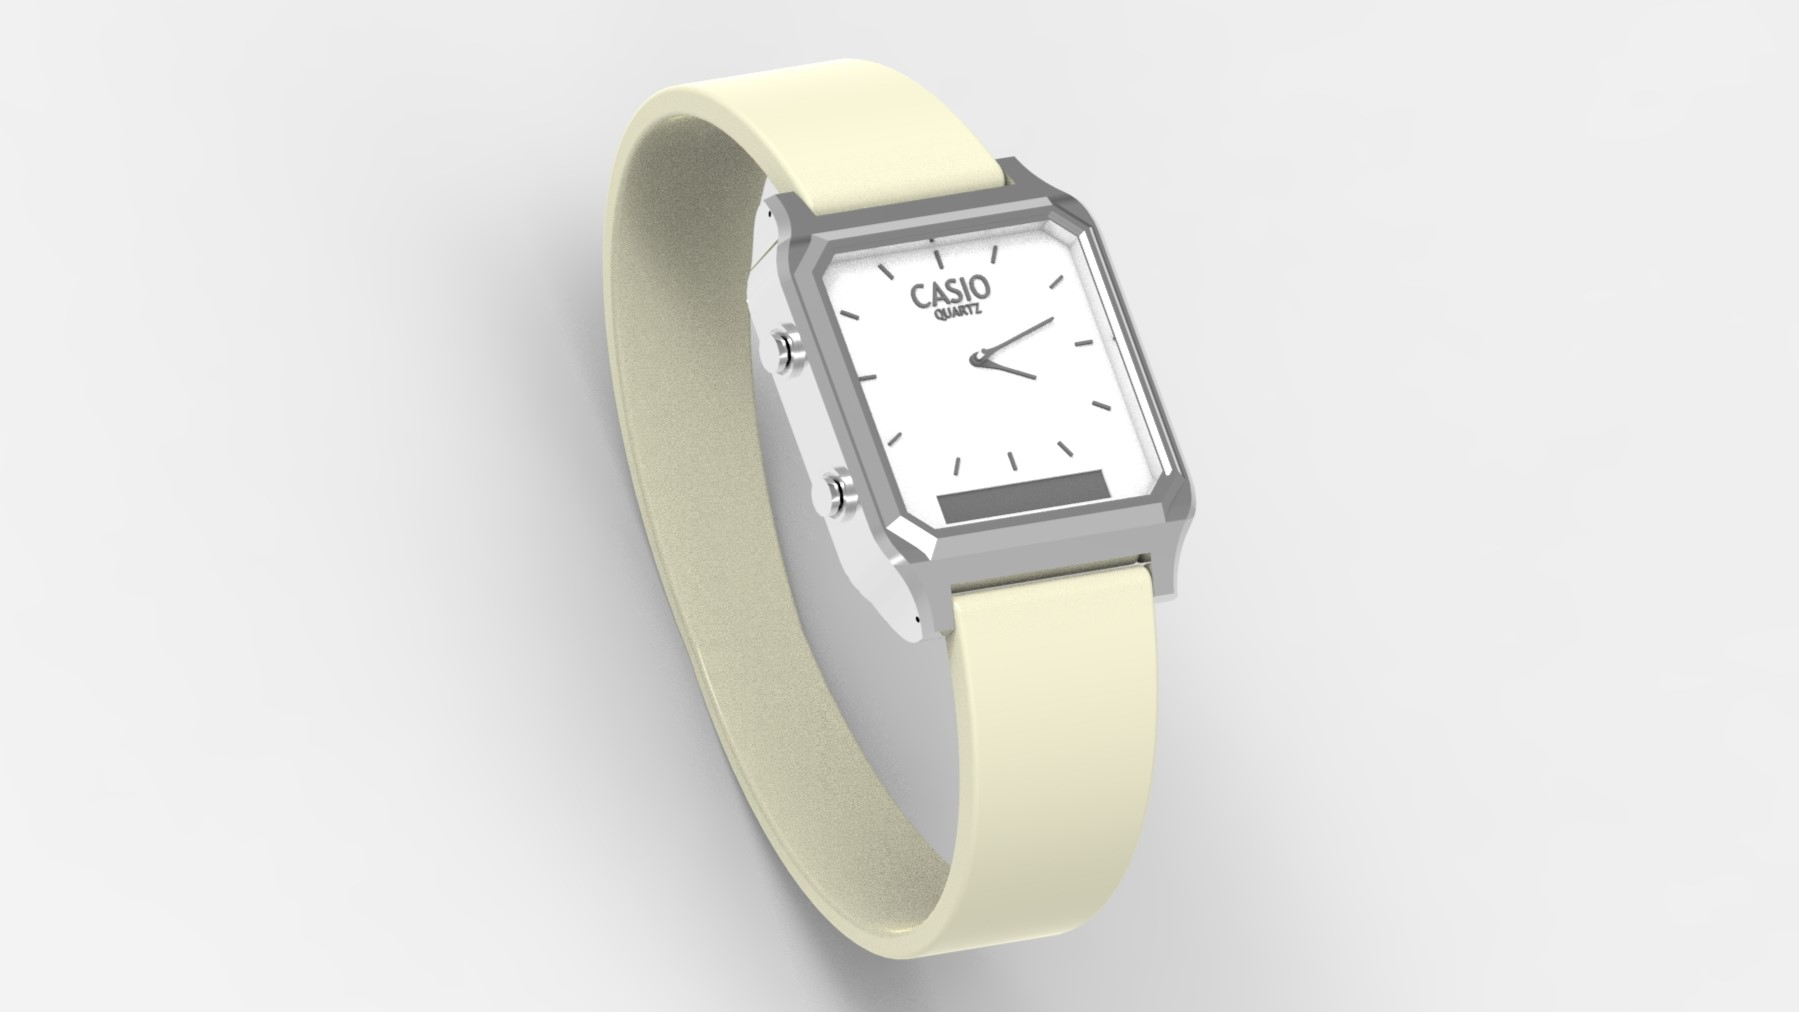
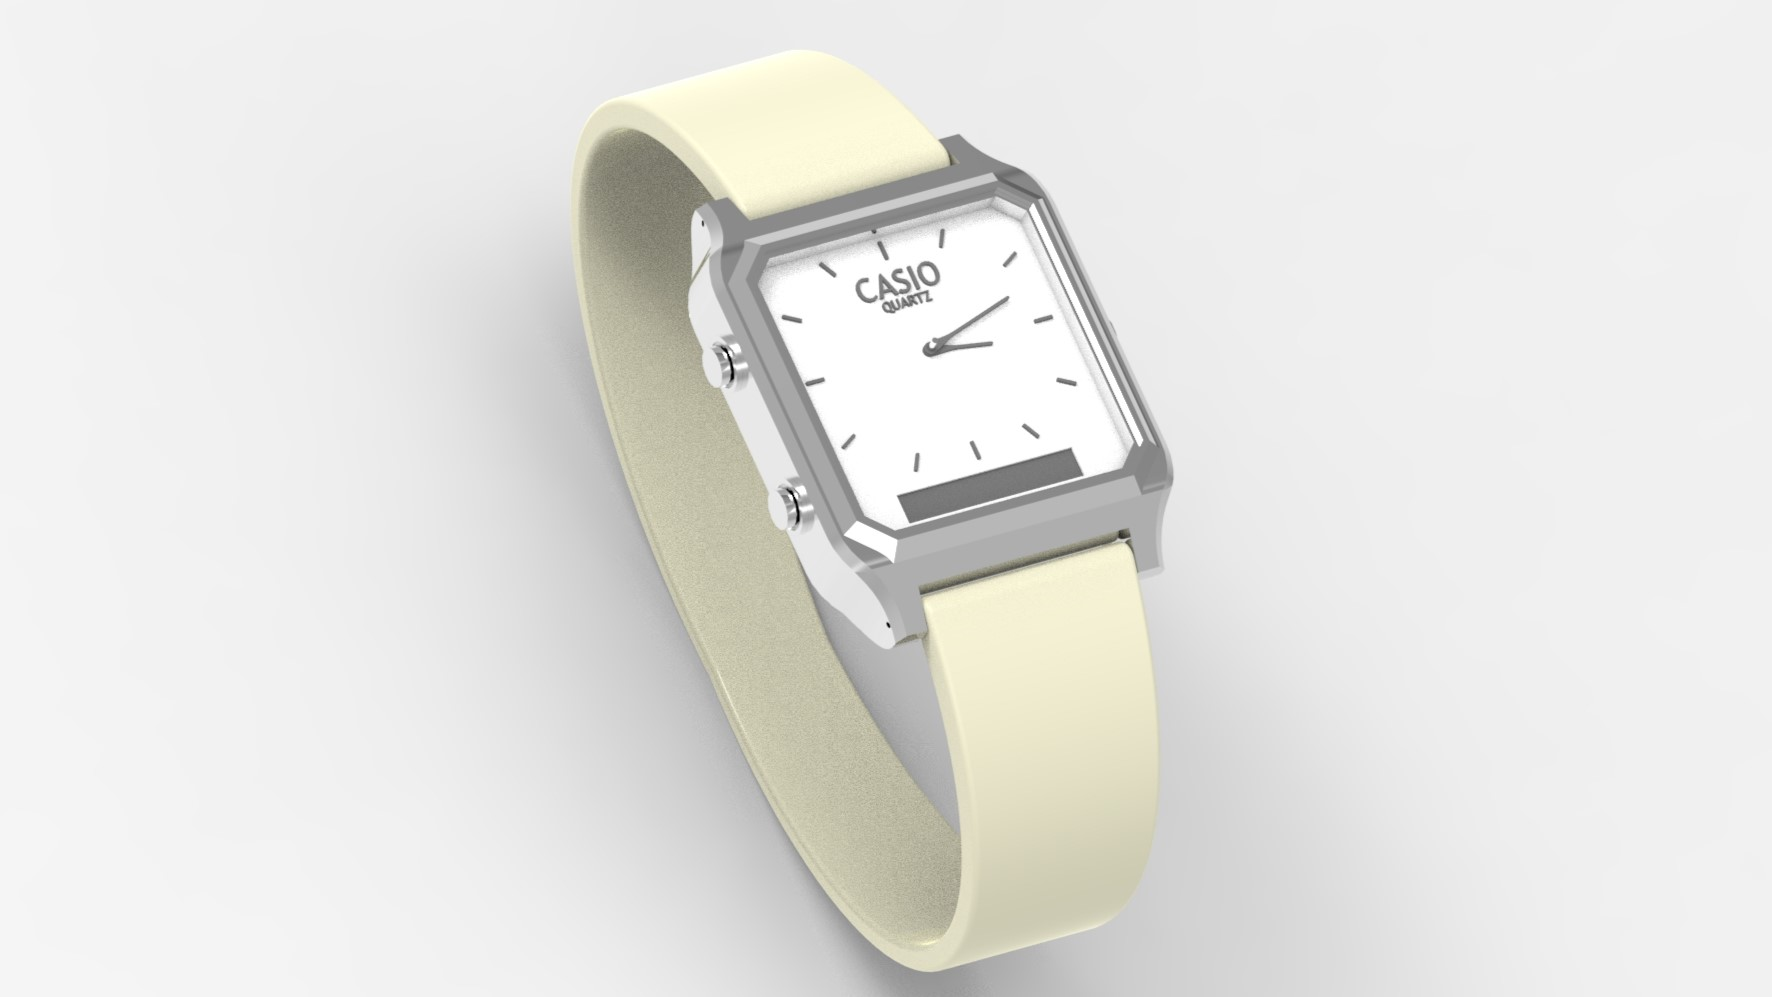
include casio renders

Changed region(s): [[0.3104, 0.0933, 0.6828, 0.7773], [0.4035, 0.7151, 0.6518, 1.0], [0.3725, 0.6219, 0.4035, 0.7151]]

diff --git a/index.html b/index.html
@@ -454,7 +454,7 @@
                   <li>CAD model based on the Casio AQ-230 5154 watch.</li>
                 </ul>
                 <div class="card-action">
-                  <a aria-label="View Renders" href="https://raw.githubusercontent.com/carlosaduranc/carlosaduranc.github.io/refs/heads/main/assets/img/casio_render.jpg" target="_blank" data-position="top"
+                  <a aria-label="View Renders" href="https://raw.githubusercontent.com/carlosaduranc/carlosaduranc.github.io/refs/heads/main/assets/img/casio_renders.png" target="_blank" data-position="top"
                     data-tooltip="View Renders"
                     class="btn-floating btn-large waves-effect waves-light blue-grey tooltipped"><i
                       class="fa fa-external-link"></i></a>
